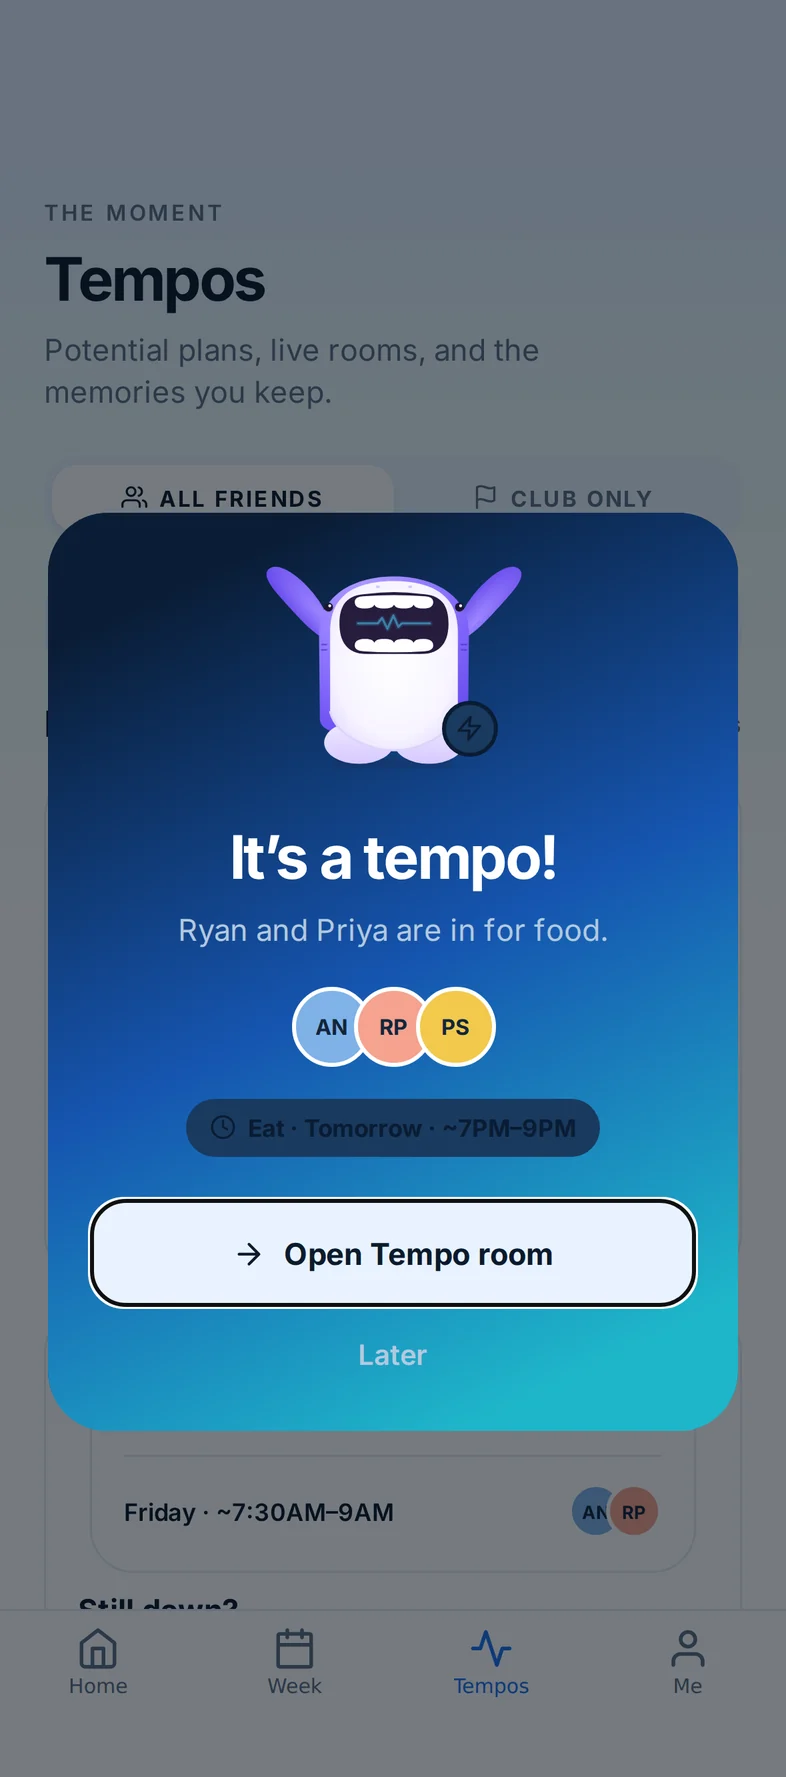
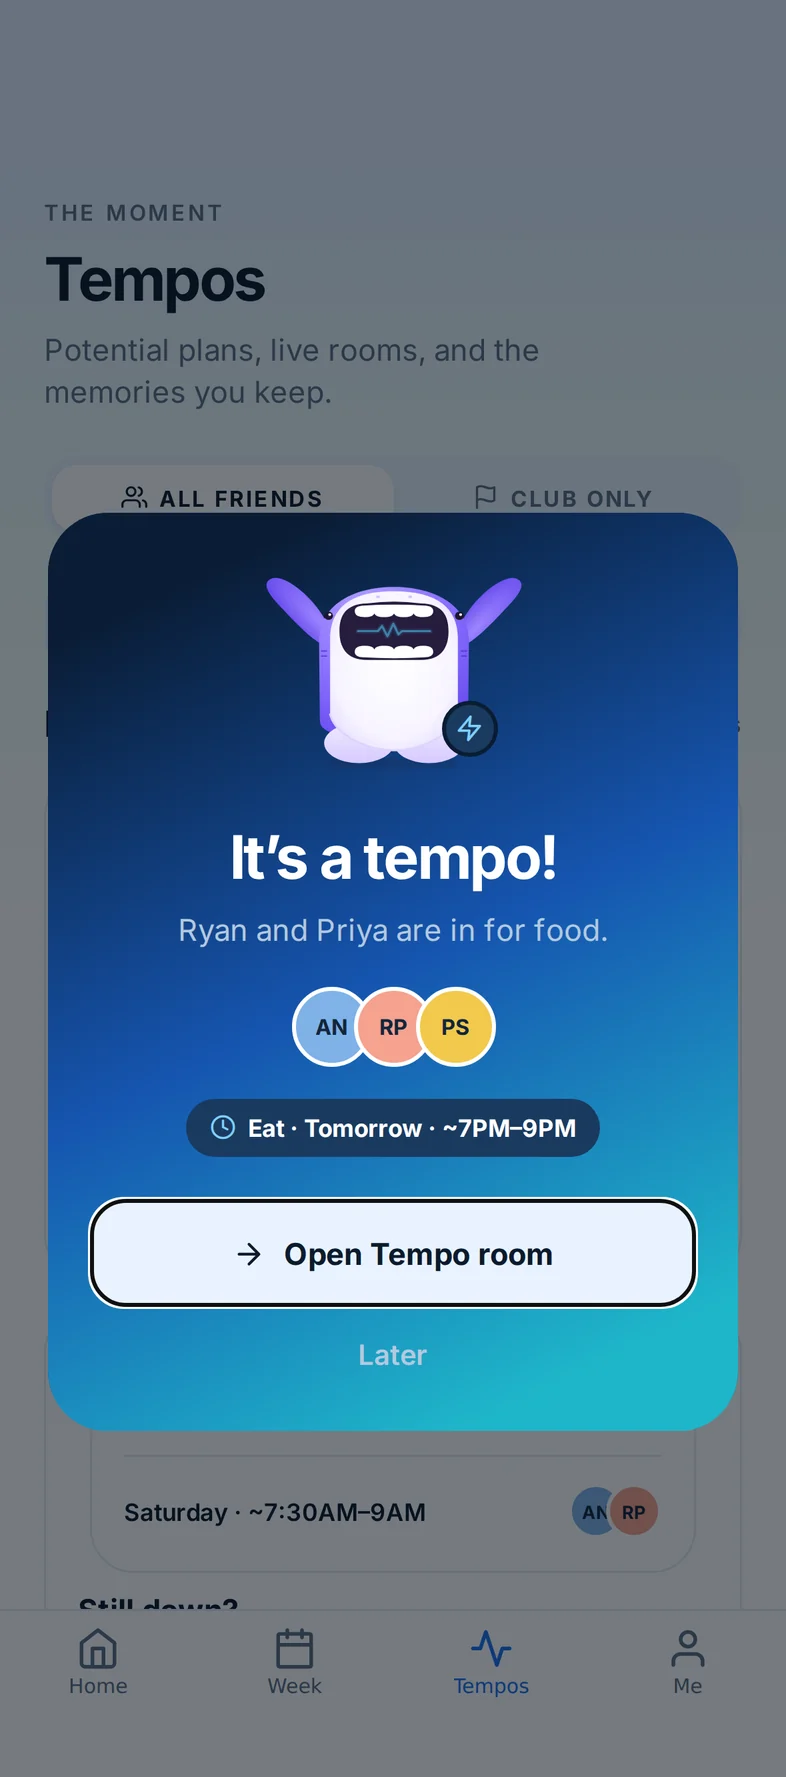
Readable time on the It's a tempo picture

diff --git a/index.html b/index.html
@@ -283,7 +283,7 @@
           <h3>It’s a tempo</h3>
           <p>Two yeses and it’s on. Everyone who’s in finds out at the same moment. It lands on your week like a ticket.</p>
           <span class="feel">“We’re actually in.”</span>
-          <div class="inline-phone"><div class="phone "><div class="screen-wrap"><div class="status"><span>9:41</span><svg viewBox="0 0 66 12" fill="currentColor" aria-hidden="true"><rect x="0" y="7" width="3" height="5" rx="1"/><rect x="5" y="5" width="3" height="7" rx="1"/><rect x="10" y="3" width="3" height="9" rx="1"/><rect x="15" y="0" width="3" height="12" rx="1"/><path d="M29 3.2a9 9 0 0 1 11 0l-1.3 1.5a7 7 0 0 0-8.4 0zM31.4 6a5 5 0 0 1 6.2 0l-1.3 1.5a3 3 0 0 0-3.6 0zM34.5 11l-1.7-1.9a2.4 2.4 0 0 1 3.4 0z"/><rect x="45" y="1" width="18" height="10" rx="3" fill="none" stroke="currentColor" stroke-opacity=".45"/><rect x="47" y="3" width="13" height="6" rx="1.5"/><rect x="64" y="4.5" width="1.6" height="3" rx=".8" fill-opacity=".45"/></svg></div><img class="shot " src="img/site-its-a-tempo.webp?v=2" alt="The “It’s a tempo!” moment when everyone’s in" width="786" height="1777" loading="lazy" decoding="async"></div></div></div>
+          <div class="inline-phone"><div class="phone "><div class="screen-wrap"><div class="status"><span>9:41</span><svg viewBox="0 0 66 12" fill="currentColor" aria-hidden="true"><rect x="0" y="7" width="3" height="5" rx="1"/><rect x="5" y="5" width="3" height="7" rx="1"/><rect x="10" y="3" width="3" height="9" rx="1"/><rect x="15" y="0" width="3" height="12" rx="1"/><path d="M29 3.2a9 9 0 0 1 11 0l-1.3 1.5a7 7 0 0 0-8.4 0zM31.4 6a5 5 0 0 1 6.2 0l-1.3 1.5a3 3 0 0 0-3.6 0zM34.5 11l-1.7-1.9a2.4 2.4 0 0 1 3.4 0z"/><rect x="45" y="1" width="18" height="10" rx="3" fill="none" stroke="currentColor" stroke-opacity=".45"/><rect x="47" y="3" width="13" height="6" rx="1.5"/><rect x="64" y="4.5" width="1.6" height="3" rx=".8" fill-opacity=".45"/></svg></div><img class="shot " src="img/site-its-a-tempo.webp?v=3" alt="The “It’s a tempo!” moment when everyone’s in" width="786" height="1777" loading="lazy" decoding="async"></div></div></div>
         </article>
 
         <article class="step" data-step="4">
@@ -306,7 +306,7 @@
       </div>
 
       <div class="sticky" aria-hidden="true">
-        <div class="phone big"><div class="screen-wrap"><div class="status"><span>9:41</span><svg viewBox="0 0 66 12" fill="currentColor" aria-hidden="true"><rect x="0" y="7" width="3" height="5" rx="1"/><rect x="5" y="5" width="3" height="7" rx="1"/><rect x="10" y="3" width="3" height="9" rx="1"/><rect x="15" y="0" width="3" height="12" rx="1"/><path d="M29 3.2a9 9 0 0 1 11 0l-1.3 1.5a7 7 0 0 0-8.4 0zM31.4 6a5 5 0 0 1 6.2 0l-1.3 1.5a3 3 0 0 0-3.6 0zM34.5 11l-1.7-1.9a2.4 2.4 0 0 1 3.4 0z"/><rect x="45" y="1" width="18" height="10" rx="3" fill="none" stroke="currentColor" stroke-opacity=".45"/><rect x="47" y="3" width="13" height="6" rx="1.5"/><rect x="64" y="4.5" width="1.6" height="3" rx=".8" fill-opacity=".45"/></svg></div><img class="shot on" src="img/site-week.webp?v=2" alt="Set your echo: pick a vibe and loose times for the week" width="786" height="1777" loading="lazy" decoding="async"><img class="shot " src="img/site-home.webp?v=2" alt="EchoTempo home screen: hold the circle to set your echo, with friends who are down lining up around it" width="786" height="1777" loading="lazy" decoding="async"><img class="shot " src="img/site-still-down.webp?v=2" alt="The Tempos tab asking “Still down?” for lunch with Maya and Daniel" width="786" height="1777" loading="lazy" decoding="async"><img class="shot " src="img/site-its-a-tempo.webp?v=2" alt="The “It’s a tempo!” moment when everyone’s in" width="786" height="1777" loading="lazy" decoding="async"><img class="shot " src="img/site-room.webp?v=2" alt="A tempo room where Ryan, Priya and Andrew pick a ramen spot" width="786" height="1777" loading="lazy" decoding="async"><img class="shot " src="img/site-feedback.webp?v=2" alt="“Did it happen?” after a tempo" width="786" height="1777" loading="lazy" decoding="async"></div></div>
+        <div class="phone big"><div class="screen-wrap"><div class="status"><span>9:41</span><svg viewBox="0 0 66 12" fill="currentColor" aria-hidden="true"><rect x="0" y="7" width="3" height="5" rx="1"/><rect x="5" y="5" width="3" height="7" rx="1"/><rect x="10" y="3" width="3" height="9" rx="1"/><rect x="15" y="0" width="3" height="12" rx="1"/><path d="M29 3.2a9 9 0 0 1 11 0l-1.3 1.5a7 7 0 0 0-8.4 0zM31.4 6a5 5 0 0 1 6.2 0l-1.3 1.5a3 3 0 0 0-3.6 0zM34.5 11l-1.7-1.9a2.4 2.4 0 0 1 3.4 0z"/><rect x="45" y="1" width="18" height="10" rx="3" fill="none" stroke="currentColor" stroke-opacity=".45"/><rect x="47" y="3" width="13" height="6" rx="1.5"/><rect x="64" y="4.5" width="1.6" height="3" rx=".8" fill-opacity=".45"/></svg></div><img class="shot on" src="img/site-week.webp?v=2" alt="Set your echo: pick a vibe and loose times for the week" width="786" height="1777" loading="lazy" decoding="async"><img class="shot " src="img/site-home.webp?v=2" alt="EchoTempo home screen: hold the circle to set your echo, with friends who are down lining up around it" width="786" height="1777" loading="lazy" decoding="async"><img class="shot " src="img/site-still-down.webp?v=2" alt="The Tempos tab asking “Still down?” for lunch with Maya and Daniel" width="786" height="1777" loading="lazy" decoding="async"><img class="shot " src="img/site-its-a-tempo.webp?v=3" alt="The “It’s a tempo!” moment when everyone’s in" width="786" height="1777" loading="lazy" decoding="async"><img class="shot " src="img/site-room.webp?v=2" alt="A tempo room where Ryan, Priya and Andrew pick a ramen spot" width="786" height="1777" loading="lazy" decoding="async"><img class="shot " src="img/site-feedback.webp?v=2" alt="“Did it happen?” after a tempo" width="786" height="1777" loading="lazy" decoding="async"></div></div>
         <div class="sticky-say">
           <span class="bubble" data-say="0">Once a week. 20 seconds.</span>
           <span class="bubble" data-say="1">Ooh, Maya’s free too!</span>
